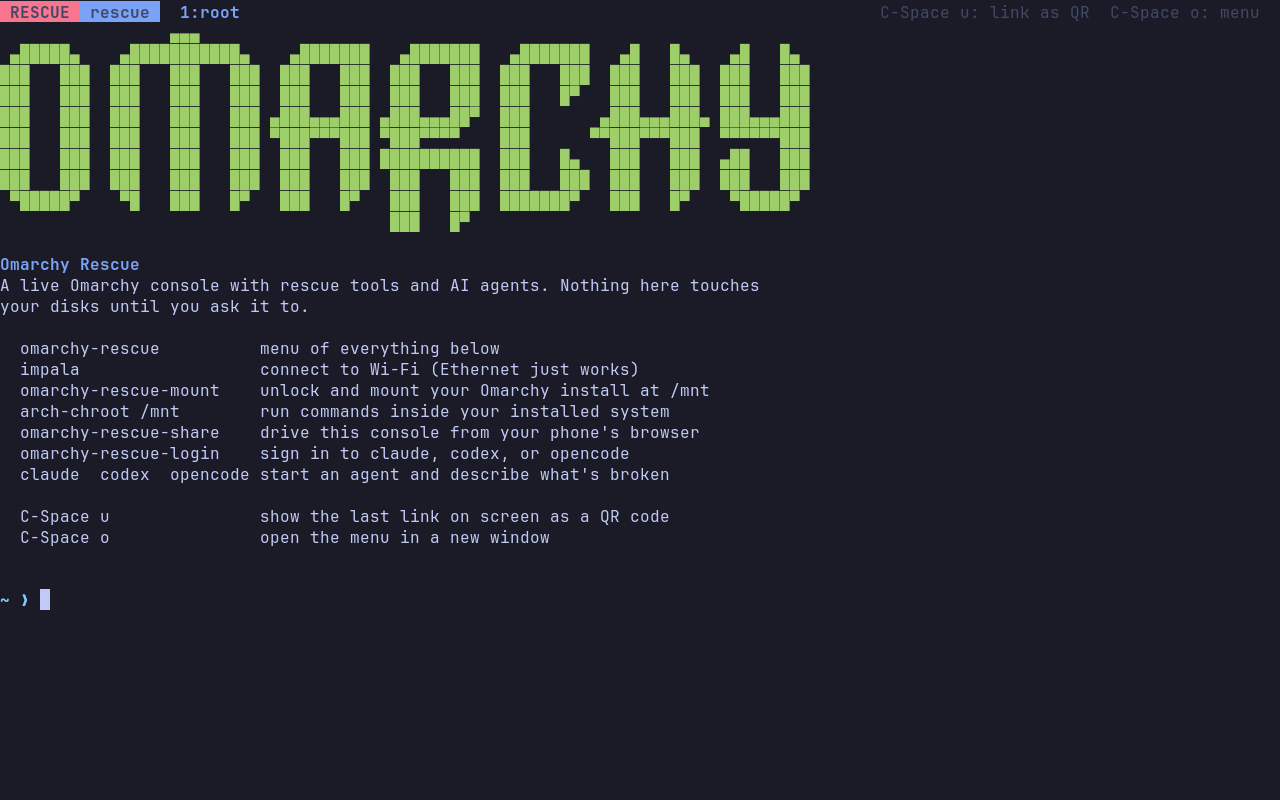
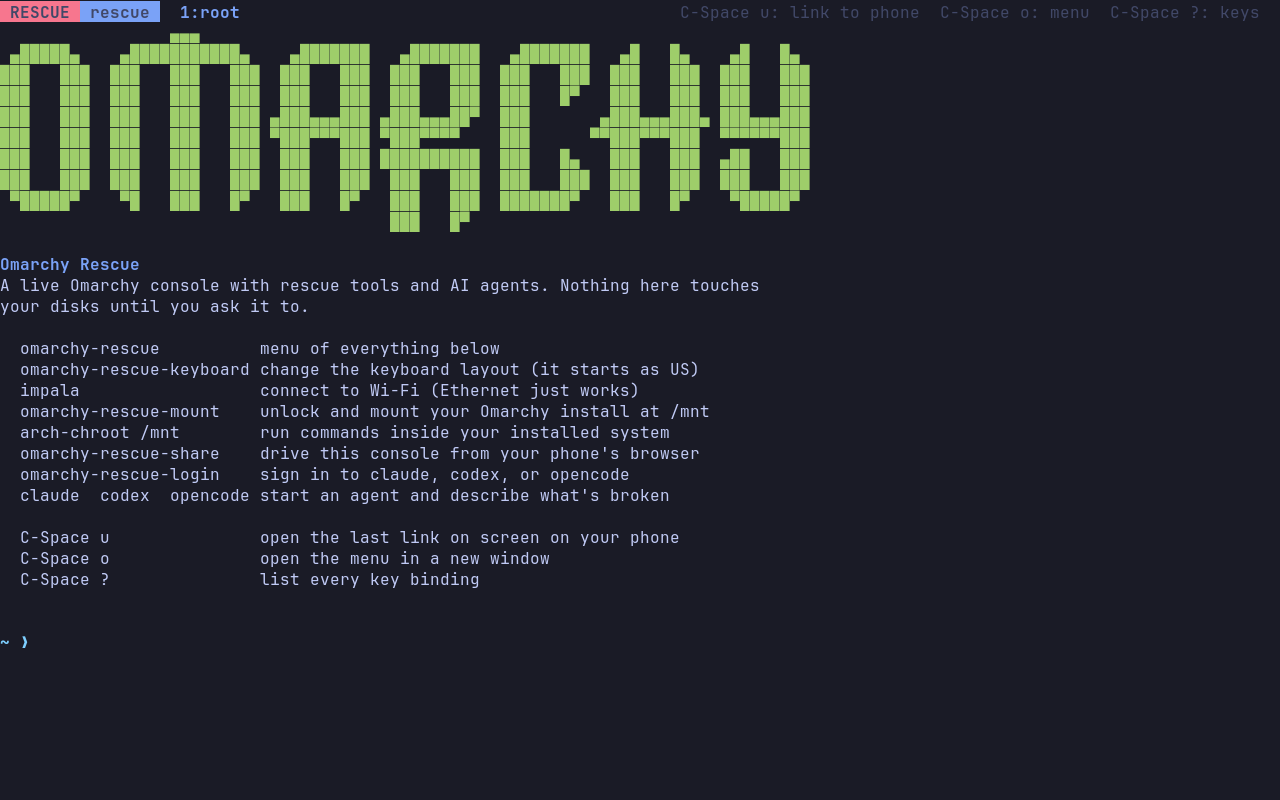
List the key bindings on C-Space ?
Omarchy's binding for it runs a helper the live system doesn't have, so
the list came up empty. It now lists every annotated binding, Omarchy's
and the rescue ones, with tmux itself. The welcome screen, the status bar
and the README mention it; the status bar is wide enough to show it all.
New screenshots of the welcome screen and the list.

diff --git a/README.md b/README.md
@@ -67,6 +67,11 @@ omarchy-rescue          a menu of all of the above
 list; `omarchy-rescue-keyboard de` (or `fr`, `it`, `gb`, ...) sets one
 directly. The console restarts with it and your session carries on.
 
+The prefix key is **C-Space**, as in Omarchy. **C-Space ?** lists every key
+binding:
+
+![The key binding list](docs/screenshots/keybindings.png)
+
 `omarchy-rescue-mount` asks for your disk passphrase and mounts the whole
 install the way it mounts itself, from its own fstab:
 
